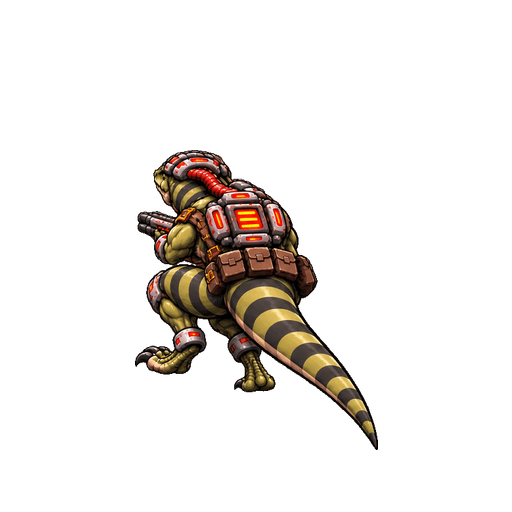
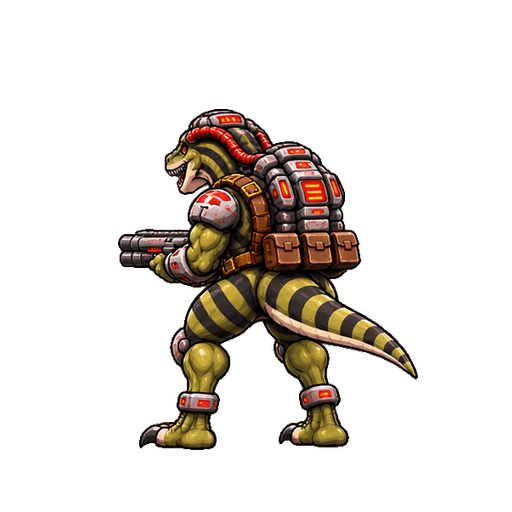
39T7.1: eight standing views, light-movement facing and lab pace controls

Changed region(s): [[0.2188, 0.1875, 0.8125, 0.9062]]

diff --git a/app/Game.tsx b/app/Game.tsx
@@ -241,12 +241,13 @@ function combatTone(kind:string,angle?:number){
  const frequency=kind==="tear"?210:kind==="parry"?1500:kind==="cover-defense"?155:kind==="damage"?95:kind==="block"?950:kind==="hit"?330:kind==="shield"?780:kind==="cover"?130:kind==="finish"?90:kind==="fight"?660:440;
  osc.type=kind==="tear"?"sawtooth":kind==="cover"?"triangle":"sine";osc.frequency.setValueAtTime(frequency,now);osc.frequency.exponentialRampToValueAtTime(Math.max(40,frequency*.65),now+.09);gain.gain.setValueAtTime(.045,now);gain.gain.exponentialRampToValueAtTime(.001,now+.13);osc.connect(gain);const pan=a.createStereoPanner?.();if(pan){pan.pan.value=Number.isFinite(angle)?Math.cos(angle!):0;gain.connect(pan);pan.connect(a.destination);}else gain.connect(a.destination);osc.start(now);osc.stop(now+.14);osc.onended=()=>{audioVoices35--;osc.disconnect();gain.disconnect();pan?.disconnect()};
 }
-export default function Game({character="jade",cameraPreset="default",combatLab=false}:{character?:"jade"|"raptor";cameraPreset?:"default"|"close"|"kinetic";combatLab?:boolean}={}){
+export default function Game({character="jade",cameraPreset="default",combatLab=false,labPace=1}:{character?:"jade"|"raptor";cameraPreset?:"default"|"close"|"kinetic";combatLab?:boolean;labPace?:number}={}){
  useEffect(()=>{
   const el=canvas.current,parent=el?.parentElement;if(!el||!parent)return;
   const fit=()=>{const size=fitCombatViewport23(parent.clientWidth,parent.clientHeight);Object.assign(el.style,{position:'absolute',left:'50%',top:'50%',transform:'translate(-50%, -50%)',width:size.width+'px',height:size.height+'px'});};
   const observer=new ResizeObserver(fit);observer.observe(parent);fit();return()=>observer.disconnect();
  },[]);
+ const labPaceRef=useRef(1);labPaceRef.current=combatLab?Math.max(.1,Math.min(1,labPace)):1;
  const characterRef=useRef(character);characterRef.current=character;const cameraPresetRef=useRef(cameraPreset);cameraPresetRef.current=cameraPreset;
  const [cameraMode38,setCameraMode38]=useState<CameraMode38>("auto");
  const [cameraZoom38,setCameraZoom38]=useState(0);
@@ -266,7 +267,7 @@ export default function Game({character="jade",cameraPreset="default",combatLab=
  const feedbackSeen=useRef({room:"",round:0,seq:0,cue:""});
  const coverPreview=useRef(-1);const [previewCover,setPreviewCover]=useState(-1);const psychicPreview=useRef(-1);const [previewPsychic,setPreviewPsychic]=useState(-1);const chargePreview=useRef(false);const [previewCharging,setPreviewCharging]=useState(false);
  const [joinRoom,setJoinRoom]=useState(""),[joinCode,setJoinCode]=useState(""),[roomMessage,setRoomMessage]=useState("");
- const startHeld=useRef(false);const canvas=useRef<HTMLCanvasElement>(null),session=useRef<Session|null>(null),state=useRef<any>(null),seq=useRef(0),keys=useRef<Record<string,boolean>>({}),edges=useRef<Record<string,boolean>>({}),mouse=useRef({x:500,y:310,down:false}),lastAccept=useRef(performance.now()),started=useRef(false);const slideEdges=useRef(new SlideInputEdges());const slideMovement=()=>({x:touchMove.current.x||((keys.current.KeyD?1:0)-(keys.current.KeyA?1:0)),y:touchMove.current.y||((keys.current.KeyS?1:0)-(keys.current.KeyW?1:0))});const touchMove=useRef({x:0,y:0}),touchDirs=useRef(new Map<number,{x:number;y:number}>()),touchA=useRef(false),touchAEdge=useRef(false),touchTime=useRef(false),touchJump=useRef(false);
+ const startHeld=useRef(false);const canvas=useRef<HTMLCanvasElement>(null),session=useRef<Session|null>(null),state=useRef<any>(null),seq=useRef(0),keys=useRef<Record<string,boolean>>({}),edges=useRef<Record<string,boolean>>({}),mouse=useRef({x:500,y:310,down:false}),lastAccept=useRef(performance.now()),started=useRef(false);const slideEdges=useRef(new SlideInputEdges());const slideMovement=()=>({x:labPaceRef.current*(touchMove.current.x||((keys.current.KeyD?1:0)-(keys.current.KeyA?1:0))),y:labPaceRef.current*(touchMove.current.y||((keys.current.KeyS?1:0)-(keys.current.KeyW?1:0)))});const touchMove=useRef({x:0,y:0}),touchDirs=useRef(new Map<number,{x:number;y:number}>()),touchA=useRef(false),touchAEdge=useRef(false),touchTime=useRef(false),touchJump=useRef(false);
  const [rules31,setRules31]=useState<MatchRules31>({...PRACTICE_RULES31});
  useEffect(()=>{try{const raw=localStorage.getItem("god_mode_practice_rules31");if(raw)setRules31(validateRules31(JSON.parse(raw)));}catch{}},[]);
  const chooseRules31=(next:MatchRules31)=>{setRules31(next);try{localStorage.setItem("god_mode_practice_rules31",JSON.stringify(next));}catch{}};
@@ -304,7 +305,7 @@ export default function Game({character="jade",cameraPreset="default",combatLab=
  useEffect(()=>{let raf=0;const uiLoop=()=>{try{const pad=[...navigator.getGamepads()].find(Boolean) as Gamepad|undefined;if(pad){const start=!!(pad.buttons[9]?.pressed||pad.buttons[9]?.value>.25);if(start&&!startHeld.current)setStudioMenu(v=>!v);startHeld.current=start}else startHeld.current=false}catch{}raf=requestAnimationFrame(uiLoop)};raf=requestAnimationFrame(uiLoop);return()=>cancelAnimationFrame(raf)},[]);
  useEffect(()=>{let pending=false,dead=false,raf=0,latest:any={...EMPTY},previous:any={...EMPTY},owner:Session|null=null;const queue:any[]=[];
  const sample=()=>{const s=session.current,g=state.current;if(s&&g&&bootReady&&!document.hidden){if(owner!==s){owner=s;queue.length=0;previous={...EMPTY};}
- const p=g.players[s.slot]||g.players[0],i:any={...EMPTY};i.x=touchMove.current.x||((keys.current.KeyD?1:0)-(keys.current.KeyA?1:0));i.y=touchMove.current.y||((keys.current.KeyS?1:0)-(keys.current.KeyW?1:0));i.jump=touchJump.current;touchJump.current=false;i.slide=slideEdges.current.pressed;touchAEdge.current=false;const muzzle=barrelSocket27d(p,g.config?.spriteScale||.82),zoom=cameraState.ready?cameraState.zoom:g.config?.cameraZoom||1.85;let aimZ=muzzle.z;
+ const p=g.players[s.slot]||g.players[0],i:any={...EMPTY};i.x=touchMove.current.x||((keys.current.KeyD?1:0)-(keys.current.KeyA?1:0));i.y=touchMove.current.y||((keys.current.KeyS?1:0)-(keys.current.KeyW?1:0));i.x*=labPaceRef.current;i.y*=labPaceRef.current;i.jump=touchJump.current;touchJump.current=false;i.slide=slideEdges.current.pressed;touchAEdge.current=false;const muzzle=barrelSocket27d(p,g.config?.spriteScale||.82),zoom=cameraState.ready?cameraState.zoom:g.config?.cameraZoom||1.85;let aimZ=muzzle.z;
  for(const [slot,target] of g.players.entries()){if(slot===s.slot||target.hp<=0)continue;const feet=projectWorld(target.x,target.y,cameraState,zoom,target.z||0),height=78*(g.config?.spriteScale||.82)*(target.slide>0?.58:1),width=22*zoom*.64;if(Math.abs(mouse.current.x-feet.x)<=width&&mouse.current.y<=feet.y&&mouse.current.y>=feet.y-height*zoom*.64){aimZ=(target.z||0)+(feet.y-mouse.current.y)/(zoom*.64);break;}}
  const pointer=unprojectWorld(mouse.current.x,mouse.current.y+aimZ*zoom*.64,cameraState,zoom);i.aimX=pointer.x;i.aimY=pointer.y;i.aimZ=aimZ;i.aim=Math.atan2(pointer.y-muzzle.y,pointer.x-muzzle.x);i.cancelGrip34=!!edges.current.CancelGrip34;i.fire=mouse.current.down||!!keys.current.KeyT;i.shield=!!keys.current.KeyE;i.coverAim=!!keys.current.KeyZ;for(const[k,a]of Object.entries(keyAction))i[a]=!!i[a]||!!edges.current[k];edges.current={};i.melee=!!keys.current.KeyF;i.grip=i.grip||!!keys.current.KeyQ;i.gripX=Math.cos(i.aim)*Math.min(1,Math.hypot(pointer.x-p.x,pointer.y-p.y)/psychicField(p).radius);i.gripY=Math.sin(i.aim)*Math.min(1,Math.hypot(pointer.x-p.x,pointer.y-p.y)/psychicField(p).radius);i.slow=!!keys.current.KeyX||touchTime.current;i.powerup=!!keys.current.KeyY||chargePreview.current;
   try{const pad=[...navigator.getGamepads()].find(Boolean) as Gamepad|undefined;const selectors=selectorGate22.current.sample(studioMenu?null:pad||null);if(pad&&!studioMenu){delete i.aimX;delete i.aimY;delete i.aimZ;i.aim=p.aim;readController(pad,i,selectors);if(Math.hypot(i.gripX||0,i.gripY||0)>.15){const v=screenVector46(p.x,p.y,i.gripX,i.gripY);i.aim=Math.atan2(v.y,v.x);i.gripX=v.x;i.gripY=v.y;}}}catch{}
@@ -424,12 +425,12 @@ function Director({cfg,patch,applyPreset,save,load,note}:{cfg:Config;applyPreset
  <p className="presetHint">Start with INSTRUCTOR 142 CLASSIC. This is the recovered movement/cover authority. GOD MODE WEAVE remains an experiment for later A/B testing.</p>
  {rows.map(([k,l,min,max,step])=><label key={k}><span>{l}<output>{Number(cfg[k]).toFixed(step<.1?2:0)}</output></span><input type="range" min={min} max={max} step={step} value={cfg[k]} onChange={e=>patch(k,Number(e.target.value))}/></label>)}<div className="actions"><button onClick={save}>SAVE PRESET</button><button onClick={load}>LOAD PRESET</button></div>{note&&<em>{note}</em>}<p>These values update the authoritative solo simulation live. No rebuild required.</p></aside>}
 // Shared by the visible fighter and both inspectors: gun aim never selects an idle cover pose.
-function spriteFacing(p:any,family:string,speed:number){
+function spriteFacing(p:any,family:string,speed:number,movementThreshold=55){
  if(family==="slide")return p.slideFacing??p.aim??0;
  if(p.charging&&!p.coverId&&(typeof p.input?.x==="number"||typeof p.input?.y==="number"))return Math.hypot(p.input?.x||0,p.input?.y||0)>.18?Math.atan2(p.input.y,p.input.x):(p.gunFacing??p.aim??0);
  if(p.coverId&&p.coverAnchor){if(p.coverMode==="soft"){const moving=Math.abs(p.coverSpeed||0)>20;return moving?Math.atan2(p.coverAnchor.ty*Math.sign(p.coverSpeed||1),p.coverAnchor.tx*Math.sign(p.coverSpeed||1)):(p.gunFacing??p.aim??Math.atan2(-p.coverAnchor.ny,-p.coverAnchor.nx))}const exposed=p.input?.coverAim||p.fireState>0||p.recoil>0||p.returnToCover>0;return exposed?(p.gunFacing??p.aim??0):Math.atan2(p.coverAnchor.ny,p.coverAnchor.nx)}
  if(p.input?.fire||p.fireState>0)return p.gunFacing??p.aim??0;
- return family==="run"&&speed>55?Math.atan2(p.vy,p.vx):(p.gunFacing??p.aim??0);
+ return family==="run"&&speed>movementThreshold?Math.atan2(p.vy,p.vx):(p.gunFacing??p.aim??0);
 }
 const JADE_REG_LOCK08={root:{x:.5,y:1},ground:{x:.5,y:.88},crownY:.04,pelvis:{x:.5,y:.60},shoulders:{left:.31,right:.69,y:.31},helmet:{x:.5,y:.15,w:.29,h:.23},backpack:{x:.37,y:.40,w:.25,h:.35},cape:{x:.39,y:.38},weaponHand:{x:.65,y:.39},supportHand:{x:.72,y:.43},muzzle:{x:.88,y:.37},bodyEnvelope:{left:.18,right:.82,top:.04,bottom:.96}} as const;
 const FAMILY_REG08={ready:{ground:.88,y:0},run:{ground:.88,y:0},slide:{ground:.89,y:0},cover:{ground:.885,y:0},aim:{ground:.89,y:0},lower:{ground:.89,y:0},connectors:{ground:.89,y:0}} as const;
@@ -1013,8 +1014,8 @@ function fighter(g:CanvasRenderingContext2D,p:any,t:number,cfg:Config,character:
  if(character==="raptor"){
   const speed=Math.hypot(p.vx||0,p.vy||0);
   const visual=coverVisualOffset(p);
-  const family=p.slide>0||p.pinball>0?"slide":speed>20?"run":"ready";
-  paintRaptorSprite(g,{x:visual.x+p.x,y:visual.y+p.y,angle:spriteFacing(p,family,speed),
+  const family=p.slide>0||p.pinball>0?"slide":speed>2?"run":"ready";
+  paintRaptorSprite(g,{x:visual.x+p.x,y:visual.y+p.y,angle:spriteFacing(p,family,speed,2),
     worldX:p.x,worldY:p.y,travelAngle:speed>2?Math.atan2(p.vy,p.vx):undefined,
     speed,sliding:p.slide>0||p.pinball>0,slideRemaining:p.slide>0?p.slide:undefined,slideDuration:cfg.slideDuration,
     attached:!!p.coverId,actorId:p.id||"local",airborne:p.grounded===false||Math.abs(p.vz||0)>.1||(p.jumpHeight||0)>0,

diff --git a/app/studio/character-lab/page.tsx b/app/studio/character-lab/page.tsx
@@ -7,13 +7,15 @@ export default function CombatLab(){
  const [artReady,setArtReady]=useState<boolean|null>(null);
  useEffect(()=>{void preloadRaptorSprites().then(setArtReady)},[]);
  const [fighter,setFighter]=useState<Fighter|null>(null),[reset,setReset]=useState(0);
+ const [pace,setPace]=useState(1);
  const [trace,setTrace]=useState("");
  useEffect(()=>{if(fighter!=="raptor")return;const timer=setInterval(()=>setTrace(getRaptorAnimationTrace()),250);return ()=>clearInterval(timer)},[fighter]);
  const button={padding:"18px 20px",background:"#14283a",border:"2px solid #5a8394",borderRadius:12,color:"#f5fbff",font:"bold 19px Arial",cursor:"pointer",touchAction:"manipulation" as const};
  if(fighter)return <main style={{position:"fixed",inset:0,background:"#080f1a"}}>
-  <Game combatLab key={fighter+reset} character={fighter} cameraPreset="kinetic"/>
+  <Game combatLab key={fighter+reset} character={fighter} cameraPreset="kinetic" labPace={fighter==="raptor"?pace:1}/>
   {fighter==="raptor"&&<details style={{position:"fixed",right:12,top:145,zIndex:2147483647,maxHeight:"55vh",overflow:"auto",background:"#08101be8",color:"#b7e5ef",padding:8,font:"12px monospace"}}><summary>Animation trace</summary><button onClick={()=>clearRaptorAnimationTrace()}>Clear trace</button><pre>{trace}</pre></details>}
   <div style={{position:"fixed",right:12,top:12,zIndex:2147483647,display:"flex",gap:8}}>
+   {fighter==="raptor"&&<label style={{fontSize:12,color:"#e9f3fa",background:"#14283a",padding:8,borderRadius:8}}>Keyboard / touch pace <select aria-label="Keyboard and touch pace" value={pace} onChange={e=>setPace(Number(e.target.value))} style={{padding:6,background:"#243b4d",color:"white"}}><option value={.25}>Stalk</option><option value={.55}>Jog</option><option value={1}>Full</option></select></label>}
    <button style={{...button,fontSize:12,padding:12}} onClick={()=>setReset(n=>n+1)}>RESET</button>
    <button style={{...button,fontSize:12,padding:12}} onClick={()=>setFighter(null)}>CHANGE FIGHTER</button>
   </div>
@@ -21,15 +23,15 @@ export default function CombatLab(){
  return <main style={{minHeight:"100vh",background:"#08101b",color:"#f5fbff",fontFamily:"Arial",padding:"max(25px,env(safe-area-inset-top)) 20px"}}>
   <div style={{maxWidth:800,margin:"auto"}}>
    <a href="/studio" style={{color:"#89e9f2"}}>← BACK TO STUDIO</a>
-   <p style={{color:"#ff8d9e",letterSpacing:2,fontSize:12}}>GOD MODE / BUILD 39T7.0 PLAYTEST</p>
+   <p style={{color:"#ff8d9e",letterSpacing:2,fontSize:12}}>GOD MODE / BUILD 39T7.1 PLAYTEST</p>
    <h1>COMBAT LAB</h1>
    <a href="/raptor-animation-review.html" style={{color:"#89e9f2"}}>Review all run and slide frames</a>
    <p>Both fighters use the newer XYZ combat engine. This is a test build, not a production character unlock.</p>
    <div style={{display:"grid",gridTemplateColumns:"repeat(auto-fit,minmax(230px,1fr))",gap:14,marginTop:25}}>
     <button style={button} onClick={()=>setFighter("jade")}>JADE <small style={{display:"block",fontWeight:400,marginTop:10}}>Existing gameplay baseline</small></button>
-    <button disabled={artReady!==true} style={{...button,borderColor:"#ff925e",opacity:artReady?1:.5}} onClick={()=>setFighter("raptor")}>RAPTOR V2 <small style={{display:"block",fontWeight:400,marginTop:10}}>{artReady===null?"Loading Raptor artwork…":artReady?"Right: standing / stalk / jog pilot · Eight-direction sprint / slide":"Artwork failed to load — reload to retry"}</small></button>
+    <button disabled={artReady!==true} style={{...button,borderColor:"#ff925e",opacity:artReady?1:.5}} onClick={()=>setFighter("raptor")}>RAPTOR V2 <small style={{display:"block",fontWeight:400,marginTop:10}}>{artReady===null?"Loading Raptor artwork…":artReady?"Eight standing views · Right-facing stalk / jog pilot":"Artwork failed to load — reload to retry"}</small></button>
    </div>
-   <p style={{color:"#f5bf8e",fontSize:13,marginTop:24}}>Raptor cartoon-animation preview: eight directional run cycles and baseball slides. Slow movement shares the run poses; ready stance uses the slide recovery crouch. Rear stride alternation and transition polish remain under review. Moving fire follows aim.</p>
+   <p style={{color:"#f5bf8e",fontSize:13,marginTop:24}}>Standing now has dedicated artwork in all eight directions. Right-facing movement has distinct stalking, jogging, and sprint poses; the other seven slow gaits remain provisional. Use the pace selector with keyboard or touch to review the transitions. Controller stick pressure remains analog. Moving fire follows aim.</p>
   </div>
  </main>;
 }
